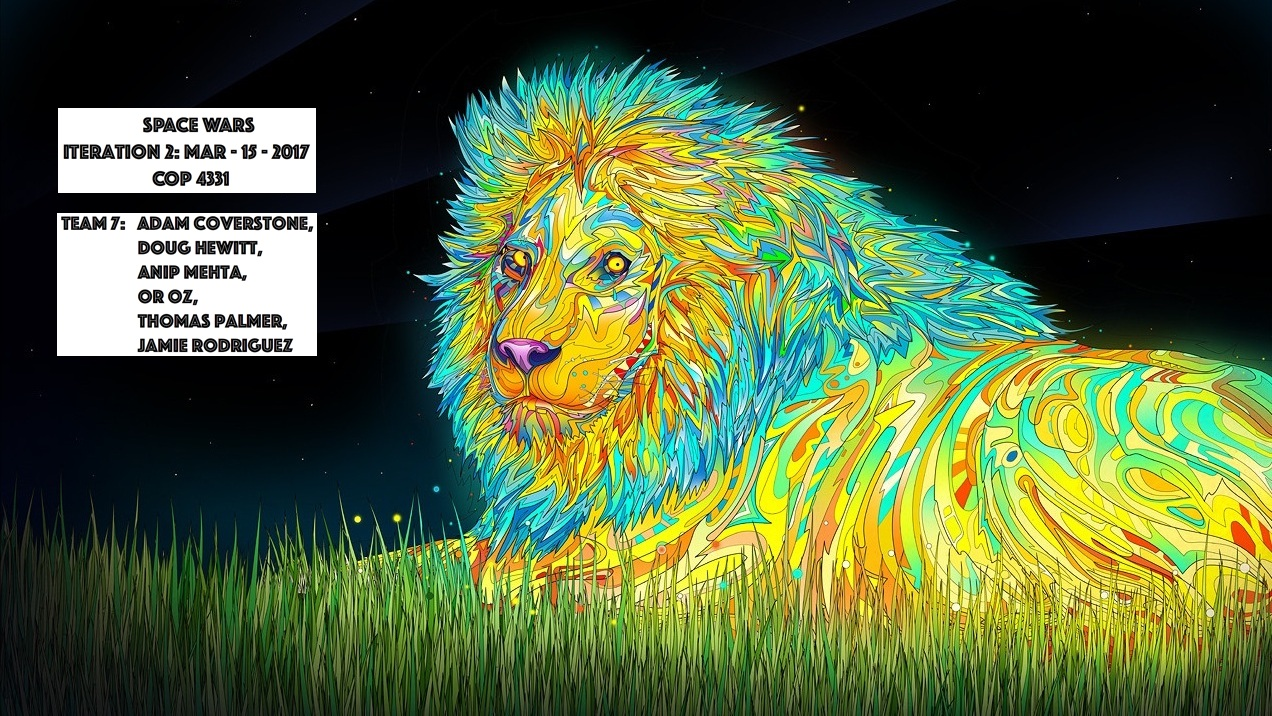
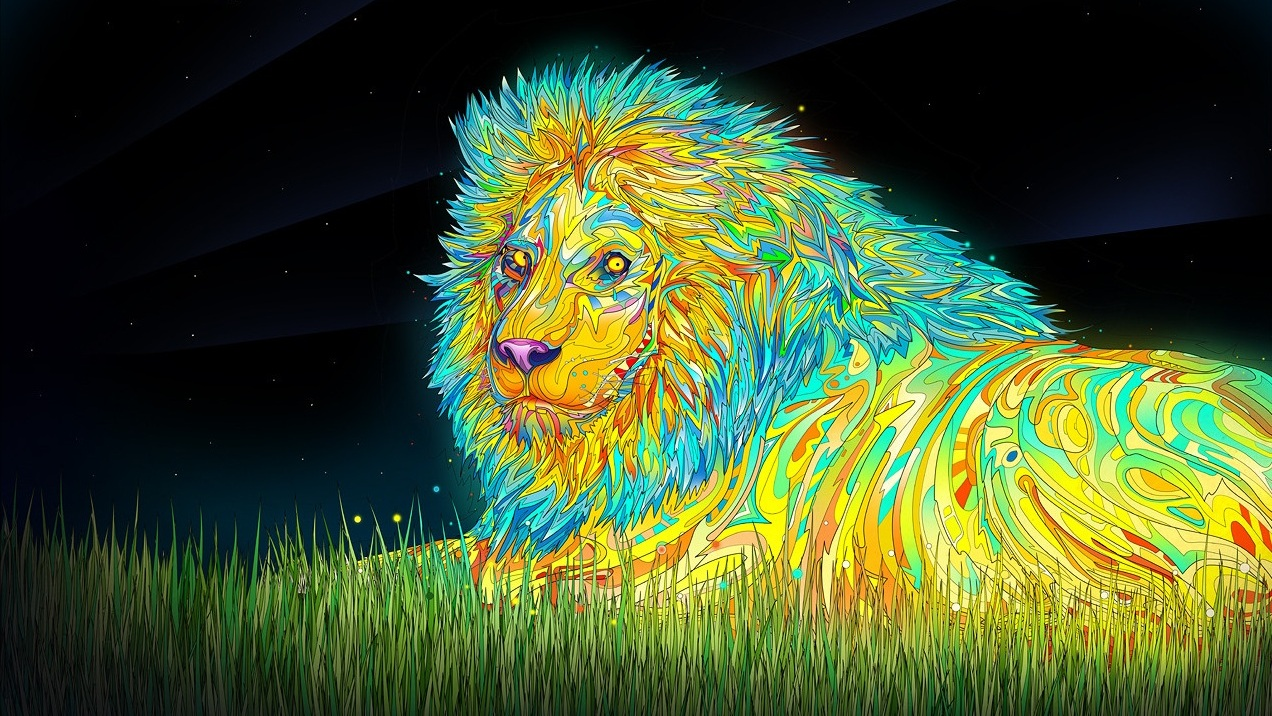
improve some things

Changed region(s): [[0.0307, 0.1536, 0.2759, 0.5223]]

diff --git a/src/com/team7/view/OptionsScreen/OptionsScreen.java b/src/com/team7/view/OptionsScreen/OptionsScreen.java
@@ -35,15 +35,16 @@ public class OptionsScreen extends JPanel{
     public OptionsScreen() {
       //  resetControlsButton.setForeground( new Color(0xCD3700));
         resetControlsButton.setForeground( new Color(0xff000000));
-        resetControlsButton.setFont(new Font("Serif", Font.BOLD, 30));
+        resetControlsButton.setFont(new Font("plain", Font.BOLD, 30));
+
 
         changeControlButton.setForeground( new Color(0xff000000));
-        changeControlButton.setFont(new Font("Serif", Font.BOLD, 30));
+        changeControlButton.setFont(new Font("plain", Font.BOLD, 30));
 
         label.setForeground( new Color(0xff000000));
         label.setBackground( new Color(0xffF5F5DC) );
         label.setOpaque(true);
-        label.setFont(new Font("Serif", Font.BOLD, 30));
+        label.setFont(new Font("plain", Font.BOLD, 30));
 
         homeButton = new JButton("Home");
         homeButton.setForeground( new Color(0xff000000));
@@ -63,10 +64,10 @@ public class OptionsScreen extends JPanel{
         JPanel p1 = new JPanel();
         JPanel p2 = new JPanel();
         JPanel p3 = new JPanel();
-        JLabel l2 = new JLabel("MAIN SCREEN SCROLL SPEED ");
+        JLabel l2 = new JLabel("MAIN SCREEN SCROLL SPEED   ");
         p1.add(l2, BorderLayout.EAST);
         s1 = new JSlider(0, 20, 10);
-        l2.setFont( new Font(  "Serif", Font.BOLD, 18));
+        l2.setFont( new Font(  "plain", Font.BOLD, 18));
         s1.setMinorTickSpacing(1);
         s1.setPaintTicks(true);
         s1.setSnapToTicks(true);
@@ -74,7 +75,7 @@ public class OptionsScreen extends JPanel{
         s1.setPreferredSize(new Dimension(440, 50));
         p1.add(s1, BorderLayout.WEST);
         JLabel l1 = new JLabel("UNIT MOVEMENT SPEED          ");
-        l1.setFont( new Font(  "Serif", Font.BOLD, 18));
+        l1.setFont( new Font(  "plain", Font.BOLD, 18));
         p2.add(l1, BorderLayout.EAST);
         s2 = new JSlider(0, 20, 10);
         s2.setMinorTickSpacing(1);
@@ -84,7 +85,7 @@ public class OptionsScreen extends JPanel{
         s2.setPreferredSize(new Dimension(440, 50));
         p2.add(s2, BorderLayout.WEST);
         JLabel l3 = new JLabel("END TURN FOCUS SPEED          ");
-        l3.setFont( new Font(  "Serif", Font.BOLD, 18));
+        l3.setFont( new Font(  "plain", Font.BOLD, 18));
         s3 = new JSlider(0, 20, 15);
         s3.setMinorTickSpacing(1);
         s3.setPaintTicks(true);
@@ -109,16 +110,16 @@ public class OptionsScreen extends JPanel{
 
         showResourceButton = new JToggleButton("Resource display [OFF]");
         showResourceButton.setForeground( new Color(0xCD3700) );
-        showResourceButton.setFont(new Font("Serif", Font.BOLD, 20));
+        showResourceButton.setFont(new Font("plain", Font.BOLD, 20));
 
         showUnitsButton = new JToggleButton("Unit display [ON]");
         showUnitsButton.setForeground( new Color(0, 175, 0, 255) );
-        showUnitsButton.setFont(new Font("Serif", Font.BOLD, 20));
+        showUnitsButton.setFont(new Font("plain", Font.BOLD, 20));
 
         JPanel btns = new JPanel( new GridLayout(0, 3) );
         btns.add(changeControlButton, BorderLayout.WEST);
         changeControlButton.setForeground( new Color(0xff000000) );
-        changeControlButton.setFont(new Font("Serif", Font.BOLD, 20));
+        changeControlButton.setFont(new Font("plain", Font.BOLD, 20));
         btns.add( showUnitsButton );
         btns.add( showResourceButton );
         btns.setBorder(BorderFactory.createLineBorder(new Color(0xffCABD80), 3));
@@ -137,7 +138,7 @@ public class OptionsScreen extends JPanel{
         this.add(buttonPanel, BorderLayout.SOUTH);
 
         this.repaint();
-        controlsList.setFont(new Font("Serif", Font.BOLD, 45));
+        controlsList.setFont(new Font("plain", Font.BOLD, 45));
         this.setBorder(BorderFactory.createLineBorder(new Color(0xffCABD80), 3));
     }
 

diff --git a/src/com/team7/view/HomeScreen/HomeScreen.java b/src/com/team7/view/HomeScreen/HomeScreen.java
@@ -63,6 +63,20 @@ public class HomeScreen extends JPanel {
             // scale image to fill screen
             g.drawImage(image, 0, 0, this.getWidth(), this.getHeight(), 0, 0, image.getWidth(),
                     image.getHeight(), null);
+
+            g.setFont(new Font("phosphate",Font.BOLD, 28));
+            g.setColor(new Color(0xffF5F5DC));
+            g.drawString("              space wars", 50, 50);
+            g.drawString("iteration 2: MAR - 15 - 2017", 50, 80);
+            g.drawString("               cop 4331", 50, 110);
+
+            g.setFont(new Font("phosphate",Font.BOLD, 26));
+            g.drawString("team7:   adam coverstone,", 50, 170);
+            g.drawString("               doug hewitt,", 70, 200);
+            g.drawString("               anip mehta,", 70, 230);
+            g.drawString("               or os,", 70, 260);
+            g.drawString("               thomas palmer,", 70, 290);
+            g.drawString("               jamie rodriguez", 70, 320);
         }
 
         public JButton getQuitButton() {
@@ -92,17 +106,17 @@ public class HomeScreen extends JPanel {
             quitButton = new JButton("QUIT");
             quitButton.setPreferredSize(new Dimension(300, 40));
 
-            options.setFont(new Font("Serif", Font.BOLD, 20));
+            options.setFont(new Font("plain", Font.BOLD, 20));
             options.setBackground( new Color(0xffCABD80) );
             options.setForeground(Color.black);
             options.setOpaque(true);
 
-            playButton.setFont(new Font("Serif", Font.BOLD, 20));
+            playButton.setFont(new Font("plain", Font.BOLD, 20));
             playButton.setBackground( new Color(0xffCABD80) );
             playButton.setForeground(Color.black);
             playButton.setOpaque(true);
 
-            quitButton.setFont(new Font("Serif", Font.BOLD, 20));
+            quitButton.setFont(new Font("plain", Font.BOLD, 20));
             quitButton.setBackground( new Color(0xffCABD80) );
             quitButton.setForeground(Color.black);
             quitButton.setOpaque(true);

diff --git a/src/com/team7/view/MainScreen/CommandSelect.java b/src/com/team7/view/MainScreen/CommandSelect.java
@@ -101,13 +101,13 @@ public class CommandSelect extends JPanel implements KeyListener, MapStats {
         commandSelectPanel.add(commandLabel);
 
         executeCommandButton = new JButton("ISSUE COMMAND");
-        executeCommandButton.setFont(new Font("Serif", Font.BOLD, 15));
+        executeCommandButton.setFont(new Font("plain", Font.BOLD, 15));
         executeCommandButton.setForeground(Color.black);
         executeCommandButton.setBackground( new Color(0xffF5F5DC) );
         executeCommandButton.setOpaque(true);
 
         endTurnButton = new JButton("END TURN");
-        endTurnButton.setFont(new Font("Serif", Font.BOLD, 15));
+        endTurnButton.setFont(new Font("plain", Font.BOLD, 15));
         endTurnButton.setBackground( new Color(0xffF5F5DC) );
         endTurnButton.setForeground(Color.black);
         endTurnButton.setOpaque(true);

diff --git a/src/com/team7/view/ScreenSelectButtons.java b/src/com/team7/view/ScreenSelectButtons.java
@@ -16,6 +16,11 @@ public class ScreenSelectButtons extends JPanel {
             structureScreenSelectButton = new JButton("STRUCTURE OVERVIEW");
             optionsScreenSelectButton = new JButton("CONTROLS");
 
+            mainScreenSelectButton.setFont(new Font("plain", Font.BOLD, 13));
+            unitScreenSelectButton.setFont(new Font("plain", Font.BOLD, 13));
+            structureScreenSelectButton.setFont(new Font("plain", Font.BOLD, 13));
+            optionsScreenSelectButton.setFont(new Font("plain", Font.BOLD, 13));
+
             this.add( mainScreenSelectButton );
             this.add( unitScreenSelectButton );
             this.add( structureScreenSelectButton );
